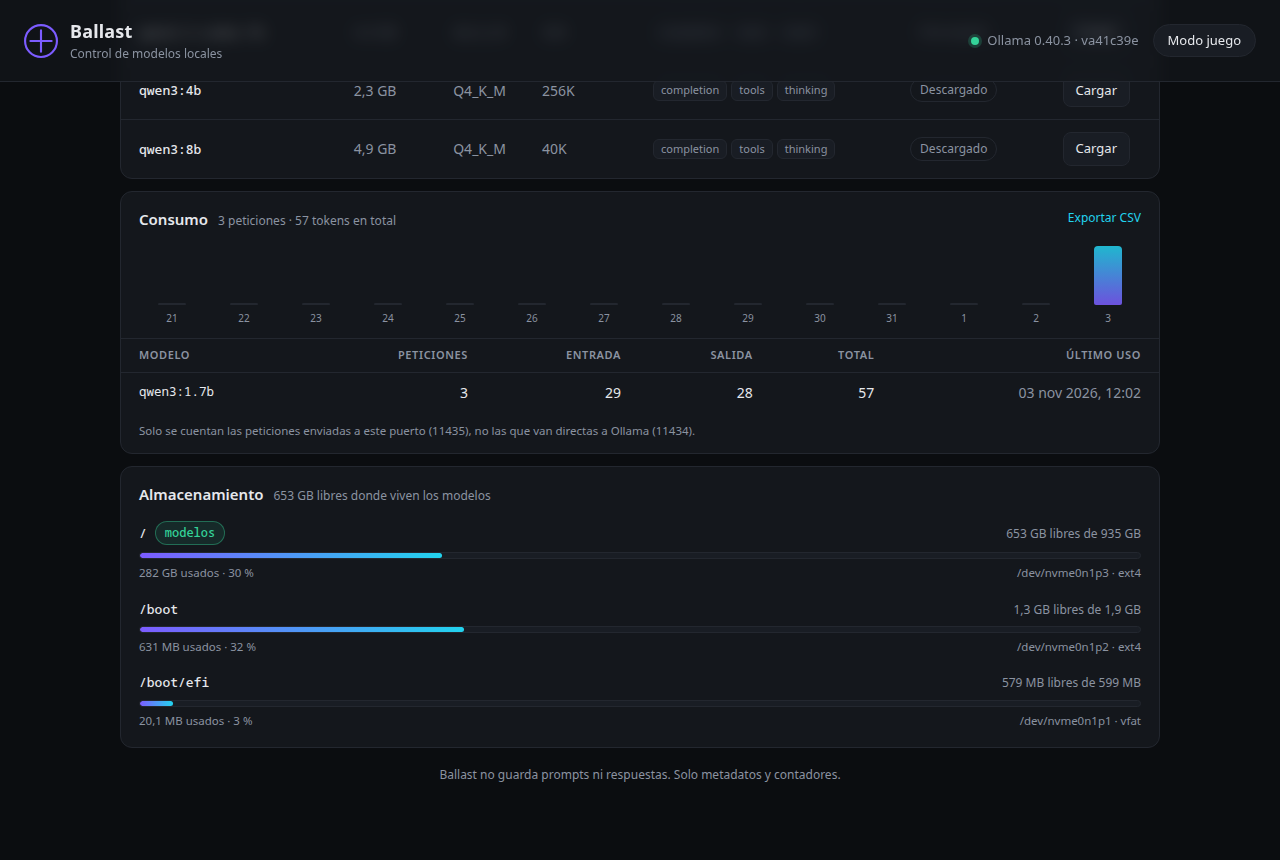
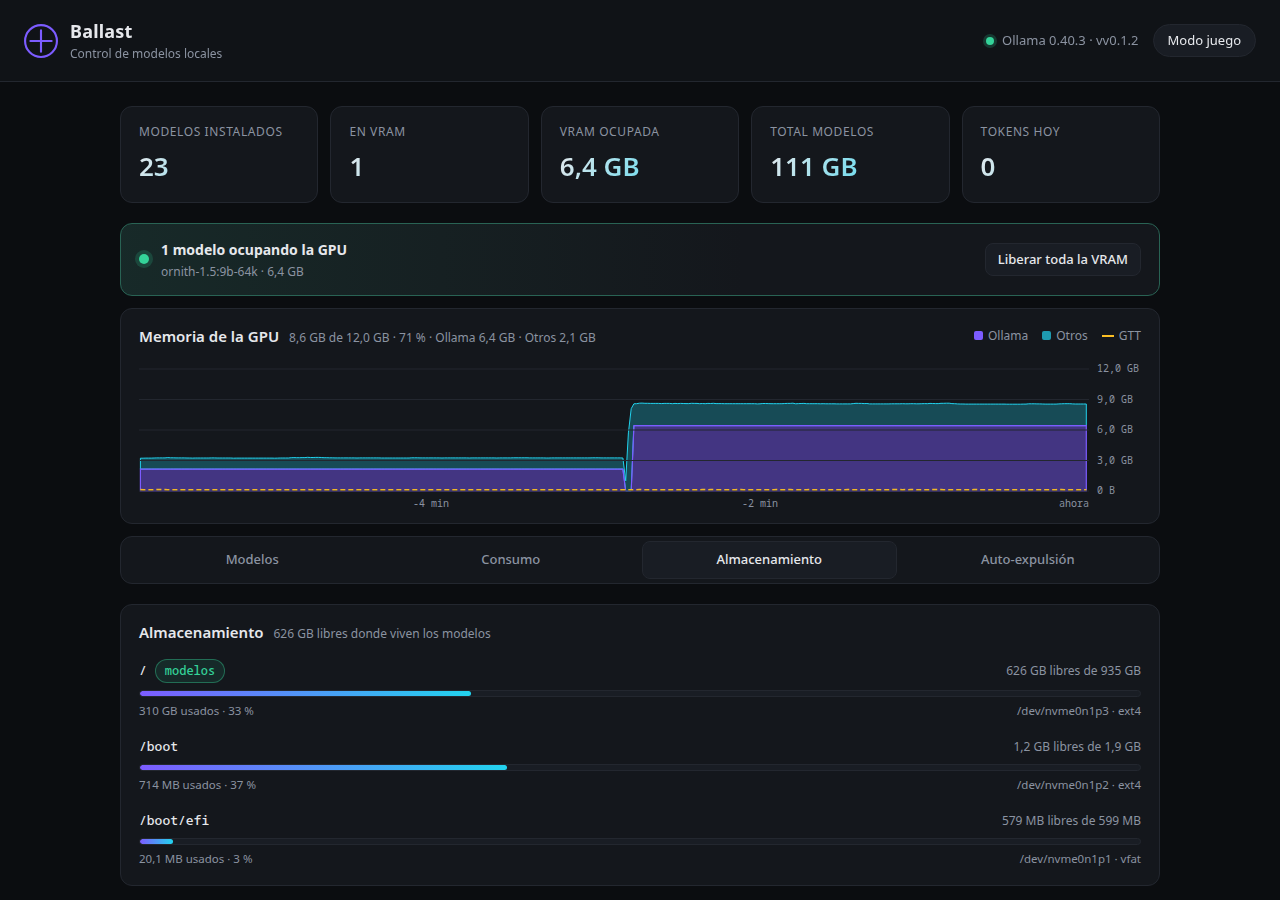
Actualiza el README con capturas reales y estado de la versión

diff --git a/README.md b/README.md
@@ -35,12 +35,18 @@ go build -o ballast ./cmd/ballast
   limpia a mitad.
 - **Consumo**: proxy en `:11435` que cuenta tokens de entrada y salida por
   modelo, gráfica de 14 días y exportación a CSV.
+- **Interfaz por pestañas**: Resumen siempre visible; Modelos, Consumo,
+  Almacenamiento y Auto-expulsión en pestañas. Tema oscuro/claro automático.
 
 ## Capturas
 
-| Resumen | Modelos | Almacenamiento |
+| Resumen | Modelos |
+|---|---|
+| ![Resumen](assets/screenshot-resumen.png) | ![Modelos](assets/screenshot-modelos.png) |
+
+| Consumo | Almacenamiento | Auto-expulsión |
 |---|---|---|
-| ![Resumen](assets/screenshot-resumen.png) | ![Modelos](assets/screenshot-modelos.png) | ![Almacenamiento](assets/screenshot-almacenamiento.png) |
+| ![Consumo](assets/screenshot-consumo.png) | ![Almacenamiento](assets/screenshot-almacenamiento.png) | ![Auto-expulsión](assets/screenshot-auto.png) |
 
 ## El puerto importa
 
@@ -56,12 +62,16 @@ Si van directos a `11434`, funcionan igual pero Ballast no los cuenta.
 
 ## Estado
 
-Versión temprana pero usable a diario. Pendiente (ver [PLAN.md](PLAN.md)):
+Versión publicada (`v0.1.2`): fases 1–4 funcionan a diario.
 
-| Fase | Contenido |
-|---|---|
-| F5 | Releases multiplataforma, `install.sh`, Docker |
-| F6 | Catálogo y búsqueda online (aplazado) |
+| Fase | Contenido | Estado |
+|---|---|---|
+| F1 | Métricas del sistema (VRAM real, discos) | Hecho |
+| F2 | Persistencia y descargas con progreso | Hecho |
+| F3 | Proxy y contador de tokens | Hecho |
+| F4 | Auto-expulsión segura | Hecho |
+| F5 | Releases multiplataforma, `install.sh`, Docker | En curso |
+| F6 | Catálogo y búsqueda online | Aplazado |
 
 ## Instalación
 
